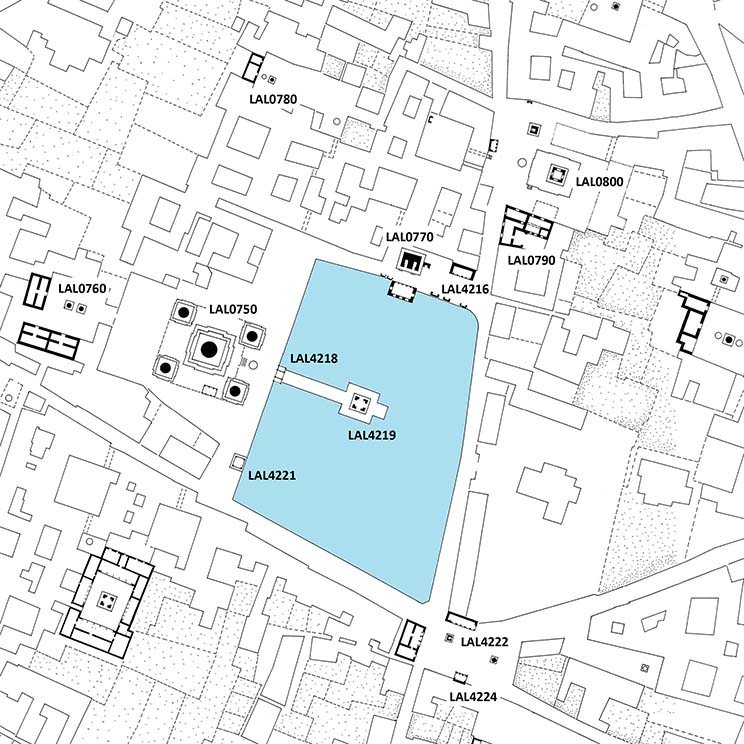
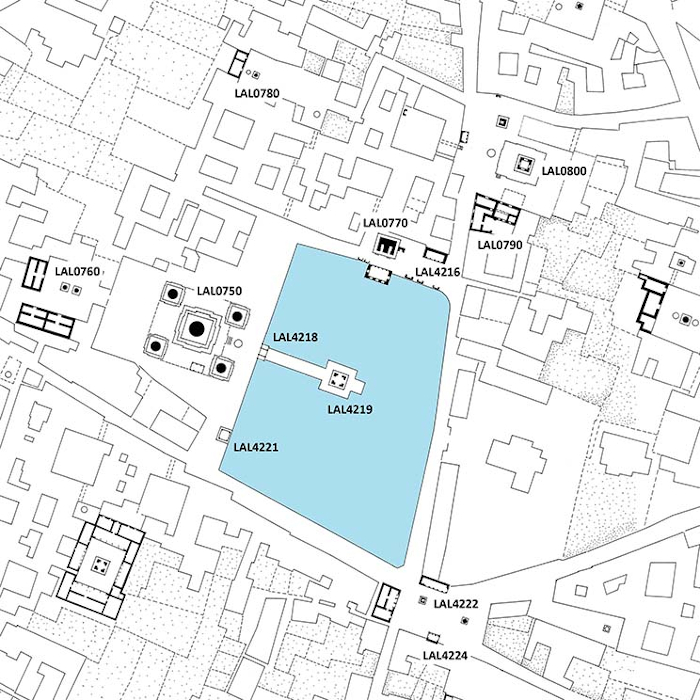
Minor modification

diff --git a/danam/danam/templates/partials/feature_search/pimbahal.htm b/danam/danam/templates/partials/feature_search/pimbahal.htm
@@ -135,9 +135,21 @@
                 <div class="row pt-5 m-0 mb-5">
                     <div class="col mb-4 mb-lg-0">
                         <figure class="mt-0" style="float: left;">
-                            <a href="{% static 'img/feature_search/Pimbahal site plan.jpg' %}" target="_blank" rel="noopener noreferrer">
-                                <img style="margin-right: 20px; margin-bottom: 0px;" width="700" height="auto" src="{% static 'img/feature_search/Pimbahal site plan.jpg' %}" alt="Bhurti Temple Complex Dailekh">
-                            </a>
+                                <img style="margin-right: 20px; margin-bottom: 0px; height: 700px; width: 700px" usemap="#image-map" src="{% static 'img/feature_search/Pimbahal site plan.jpg' %}" alt="Bhurti Temple Complex Dailekh">
+                                <map name="image-map">
+                                    <area  alt="NHDP" title="Pim Bāhāḥ Caitya" href="https://danam.cats.uni-heidelberg.de/report/553b9314-e687-11e9-8bc4-0242ac130002" target="_blank" coords="195,332,59" shape="circle">
+                                    <area  alt="NHDP" title="Mū Bāhāḥ" href="https://danam.cats.uni-heidelberg.de/report/b53e45b8-ebf5-11e9-b125-0242ac130002" target="_blank" coords="70,286,20" shape="circle">
+                                    <area  alt="NHDP" title="Caṇḍeśvarī Mandira" href="https://danam.cats.uni-heidelberg.de/report/4165aff8-eb2f-11e9-b125-0242ac130002" target="_blank" coords="389,247,16" shape="circle">
+                                    <area  alt="NHDP" title="Duru Bāhāḥ Nani" href="https://danam.cats.uni-heidelberg.de/report/939ac030-e812-11e9-b125-0242ac130002" target="_blank" coords="254,74,29" shape="circle">
+                                    <area  alt="NHDP" title="Sulīma Āgama" href="https://danam.cats.uni-heidelberg.de/report/2c4ddb84-f419-11e9-a3c8-0242ac130002" target="_blank" coords="497,223,32" shape="circle">
+                                    <area  alt="NHDP" title="Ratneśvara Mahādeva" href="https://danam.cats.uni-heidelberg.de/report/b717f92c-5e11-11ea-8083-0242ac130006" target="_blank" coords="520,163,24" shape="circle">
+                                    <area  alt="NHDP" title="Caṇḍeśvarī Dharmaśālā" href="https://danam.cats.uni-heidelberg.de/report/2fa561e9-6f62-4663-bae9-fdaeb0aee1a1" target="_blank" coords="436,255,14" shape="circle">
+                                    <area  alt="NHDP" title="Pukhula Phalcā" href="https://danam.cats.uni-heidelberg.de/report/1914bb16-0362-11ea-a389-0242ac130002" target="_blank" coords="272,352,13" shape="circle">
+                                    <area  alt="NHDP" title="Jagamaru Pukhū Phalcā" href="https://danam.cats.uni-heidelberg.de/report/8fa97d24-02ff-11ea-a389-0242ac130002" target="_blank" coords="341,378,24" shape="circle">
+                                    <area  alt="NHDP" title="Maṇḍapa Phalcā" href="https://danam.cats.uni-heidelberg.de/report/958fbc2c-e837-11e9-8bc4-0242ac130002" target="_blank" coords="226,433,14" shape="circle">
+                                    <area  alt="NHDP" title="Calakhu Bhairava Phalcā" href="https://danam.cats.uni-heidelberg.de/report/e6f72884-e774-11e9-b125-0242ac130002" target="_blank" coords="425,601,12" shape="circle">
+                                    <area  alt="NHDP" title="Calakhu Phalcā" href="https://danam.cats.uni-heidelberg.de/report/55133c56-e68d-11e9-b125-0242ac130002" target="_blank" coords="466,621,15" shape="circle">
+                                </map>
                             <figcaption class="thumb-info-caption-text text-uppercase text-1 pb-0 mb-0" style="max-width: fit-content;">
                                 PIMBAHAL, SITE PLAN BY NIELS GUTSCHOW AND BIJAY BASUKALA, 1990
                             </figcaption>
